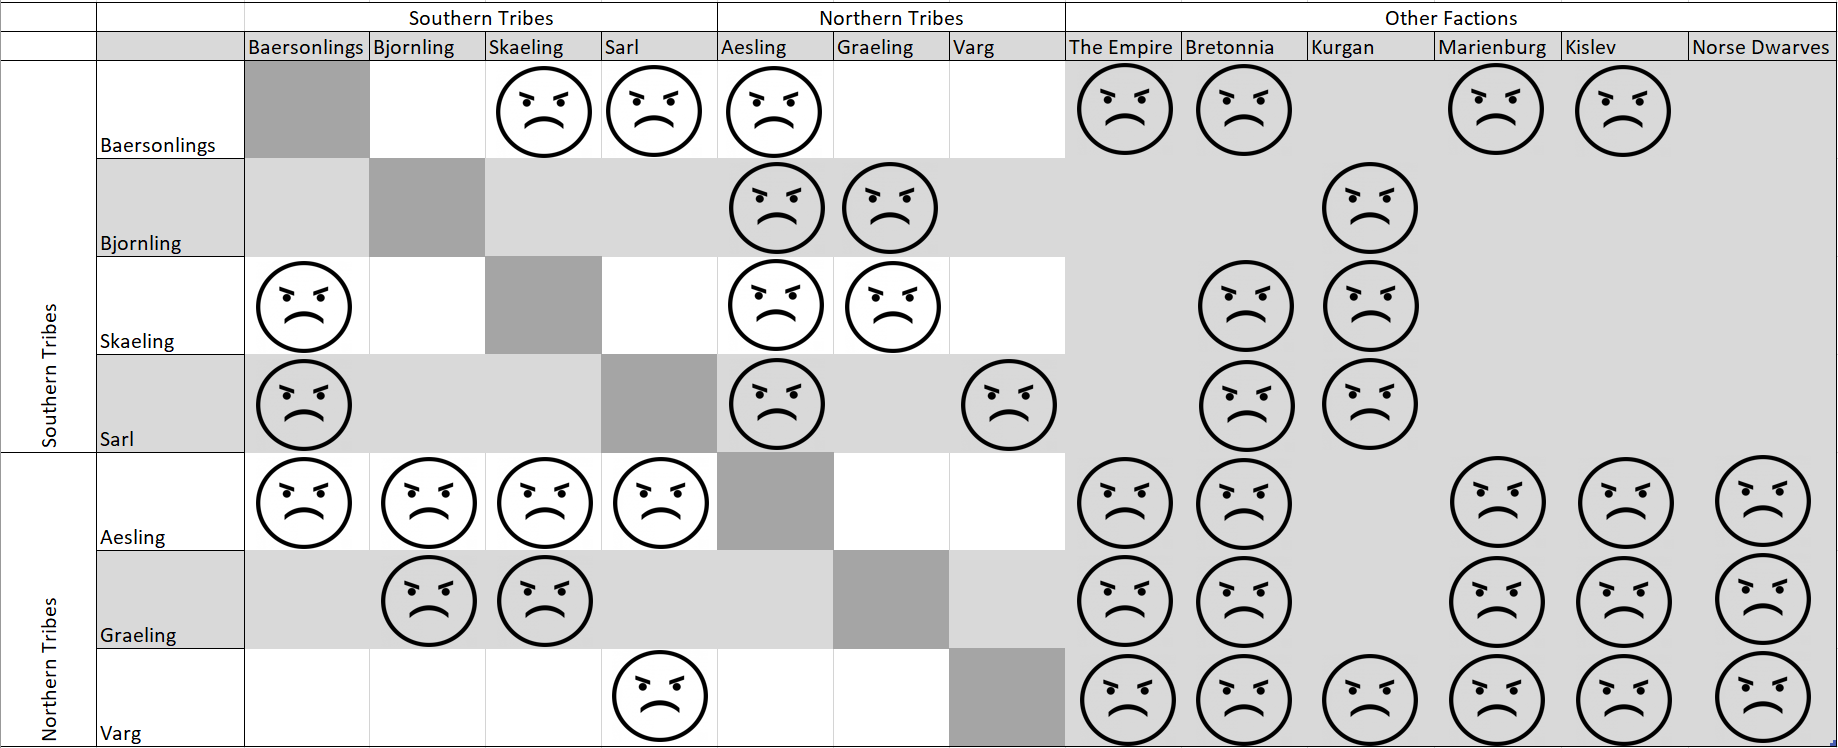
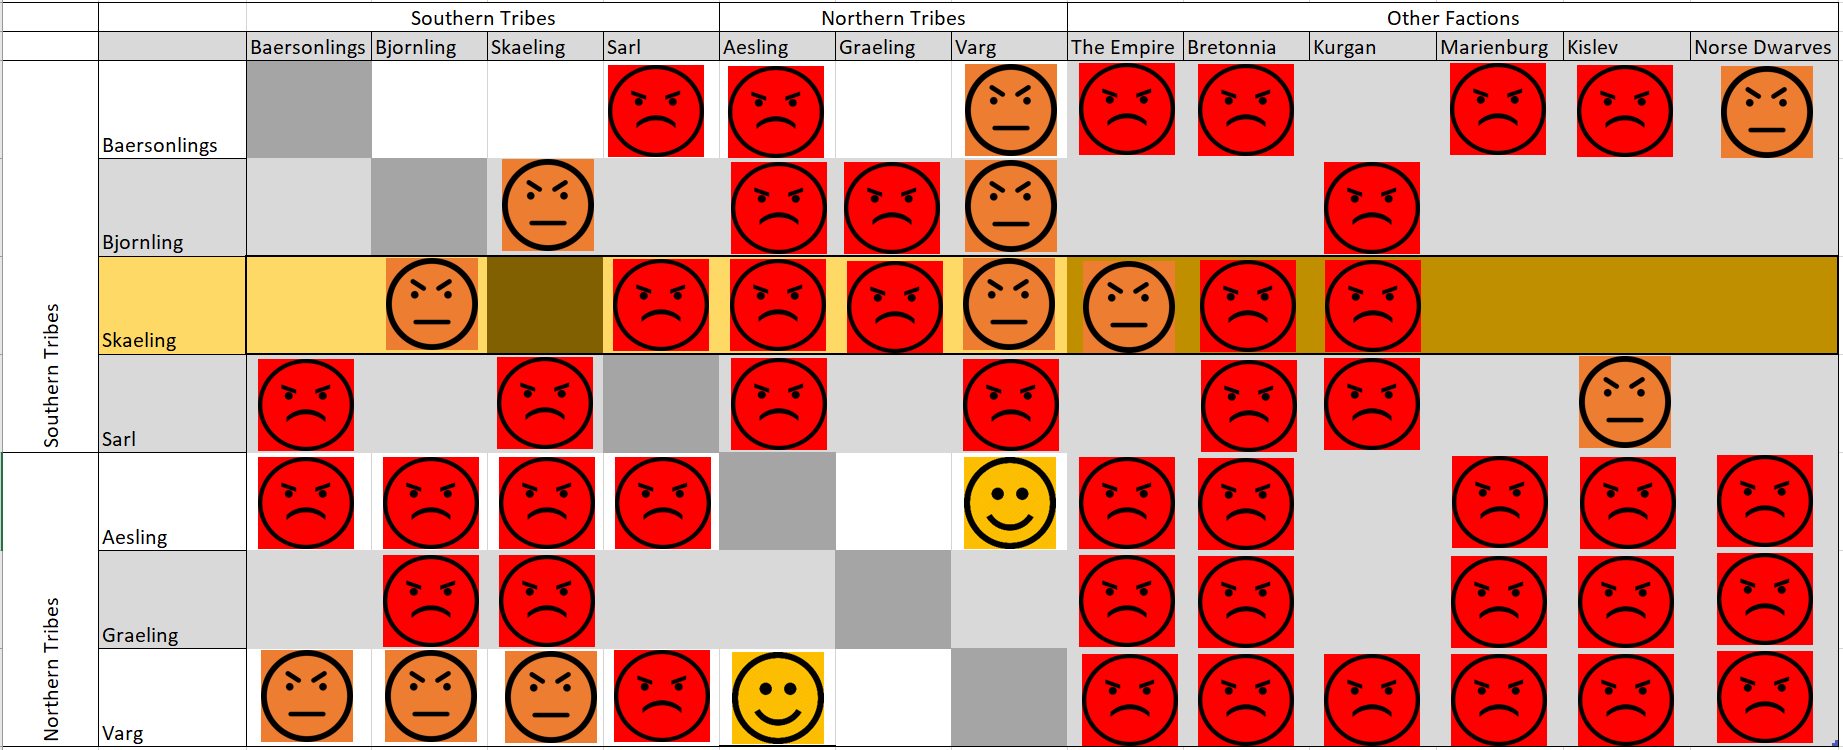
Update political climate

diff --git a/factions.md b/factions.md
@@ -56,8 +56,6 @@ Baernsonlings are famous for their werekin or Ulfwerenar. Ulfwerenar are most co
   - Ten Bear or Ti Urs
   - the Wolf (fierce enemies of the Ursfjordings)
 - **Heroes:** Bruno Ursson the "Black Bear of Urslo", Ekil Bloodhearth, Thoramir Ulfenblod, Tiera Ursviik
-- **Friends:** _none_
-- **Enemies:** Aeslings, Bretonnia, Dark Elves, Elves, Empire, Kislev, Marienburg, Sarls
 
 ### Bjornling
 <img src="https://static.wikia.nocookie.net/totalwarhammer_gamepedia/images/3/30/Wh_main_nor_bjornling_256.png/revision/latest/scale-to-width-down/256?cb=20160601173246" width="100"/>
@@ -78,8 +76,6 @@ Bjornlings are fierce rivals with their northern neighbors; the Graelings. It is
   - Thunderbear (Stavgard)
   - Trollbane (Trollbo)
 - **Heroes:** Juti Kaleva, Losteriksson, Sigismund, Skar Sealord, Tiera Ursviik, Vipunen, Väinö
-- **Friends:** Dwarfs (Norse), Skaelings
-- **Enemies:** Aeslings, Graelings, Kurgan
 
 ### Skaeling
 <img src="https://static.wikia.nocookie.net/totalwarhammer_gamepedia/images/b/bd/Wh_main_nor_skaeling_256.png/revision/latest/scale-to-width-down/256?cb=20160601173309" width="100"/>
@@ -96,8 +92,6 @@ Skaelings are raiders at their heart and take their wealth from those they deem 
   - Donnersson (Ulfsland Island)
   - Wolfclaw (Olricstaad)
 - **Heroes:** Ekil Bloodheart, Hagmar Wyrmschlager, Harald the Wolf, Hunlaf Thorsson, Knut Thorisson, Magnus Lawmaker, Sigismund, Ulf Donnersson, Vipunen
-- **Friends:** Bjornlings
-- **Enemies:** Aeslings, Graelings, Bretonnia, Dark Elves, Elves, Hung, Kurgan
 
 ### Sarl
 <img src="https://static.wikia.nocookie.net/totalwarhammer_gamepedia/images/1/17/Wh_main_nor_sarl_256.png/revision/latest/scale-to-width-down/256?cb=20160601173304" width="100"/>
@@ -117,8 +111,6 @@ Northern Sarl minor tribes, that live high in the mountains between the Trollhei
   - Stormraven (Suderholm)
   - The Wolf Brothers or "the Decayed Ones"
 - **Heroes:** Birgit Grylysa, Ekil Bloodheart, Freinar Kaosjeger, Keorl Thunderhand, Sigismund, Vipunen
-- **Friends:** _none_
-- **Enemies:** Aeslings, Varg, Baernsonlings, Bretonnia, Kislev, Kurgan
 
 ## Northern Tribes
 Standing in the shadow of Northern Wastes, Northern Norsca is a land touched by Chaos. Whenever the Roiling Eye widens, the tongues of darkness lick the dizzying peaks of this frozen land, influencing all and everything it touches. As a result, those tribes living on the coast of the Frozen Sea are more deeply affected by Chaos and develop more mutations. In addition, they are quite a bit more savage since they regularly come into conflict with the Kurgan tribes of the Wastes. They are a brutal and bloodthirsty lot; killing for the sake of killing.
@@ -152,8 +144,6 @@ It's no surprise that Aeslings worship Dark Gods more than other tribes. Though 
   - Snaegr (Snaegrvold)
   - Skrae (Skraevold)
 - **Heroes:** Ekil Bloodheart, Hrafn Untam, Morkar the Uniter, Valnir the Reaper
-- **Friends:** _none_
-- **Enemies:** Albion, Baernsonlings, Bjornlings, Bretonnia, Dwarfs (Norse), Elves, Empire, Kislev, Marienburg, Sarls, Skaelings
 
 ### Graeling
 <img src="https://static.wikia.nocookie.net/totalwarhammer_gamepedia/images/f/f9/Wh_main_nor_graeling_256.png/revision/latest/scale-to-width-down/256?cb=2016" width="100"/>
@@ -171,8 +161,6 @@ Graelings are fierce rivals of their southern neighbors, the Bjornlings. No hono
   - Iceblade (Tiurivik)
   - Tribe of the Hound (Fjirgard)
 - **Heroes:** Scyla Anfinngrim, Sigismund, Styr Windrunner
-- **Friends:** _none_
-- **Enemies:** Albion, Baernsonlings, Bjornlings, Bretonnia, Dwarfs (Norse), Elves, Empire, Kislev, Marienburg, Sarls, Skaelings
 
 ### Varg
 <img src="https://static.wikia.nocookie.net/totalwarhammer_gamepedia/images/c/c2/Wh_main_nor_varg_256.png/revision/latest/scale-to-width-down/256?cb=20160601173315" width="100"/>
@@ -188,8 +176,6 @@ Vargs have old grudges against the Kurgan tribes on the other side of the Kraken
 - **Famous Clans & Minor Tribes:** 
   - Sortsvinaer (Novgoborg)
 - **Heroes:** Morkar the Uniter, Sigismund, Styrkaar of the Sortsvinaer
-- **Friends:** _none_
-- **Enemies:** Albion, Sarls, Bretonnia, Dwarfs (Norse), Elves, Empire, Kislev, Kurgan, Marienburg
 
 
 # The Empire

diff --git a/campaign-setting.md b/campaign-setting.md
@@ -41,7 +41,7 @@ Download and read the [Norsca Campaign Setting](https://drive.google.com/file/d/
 - [Other Maps](resources/maps)
 
 ## Factions
-See the **[factions page](factions.md)** for details on relevant factions surrounding Norsca.
+See the [factions page](factions.md) for details on relevant factions surrounding Norsca.
 
 ![Norsca Factions](resources/maps/map-norsca-factions.jpg)
 
@@ -54,7 +54,6 @@ See the **[factions page](factions.md)** for details on relevant factions surrou
 
 In the Old World cultures clash; Kingdoms and Empires struggle with another for territory and dominance. However, it is important to remember that within otherwise friendly kingdoms, or even within a single kingdom itself, there are often feuds and alliances; some petty and fleeting, and others truly blood feuds lasting generations. These machinations are too many to document in their entirety, but here are a few of the major attitudes between the Norscan Factions and their immediate neighbors.
 
-_Note: At this time, only **hostile** attitudes are depicted._
 ![Political Climate](assets/norsca-political-climate.png)
 
 

diff --git a/README.md b/README.md
@@ -20,11 +20,11 @@ See the [roleplaying system page](roleplaying-system.md) for details about **3rd
 ## Campaign Setting
 See the [campaign setting page](campaign-setting.md) for details about Norsca from Warhammer's Old World.
 
-## Factions
-See the **[factions page](factions.md)** for details on relevant factions surrounding Norsca.
-
 ### Norsca
 ![Norsca](resources/maps/map-norsca-factions.jpg)
+
+## Factions
+See the [factions page](factions.md) for details on relevant factions surrounding Norsca.
 
 ## Character Creation
 See the [character creation page](character-creation.md) for more details.
